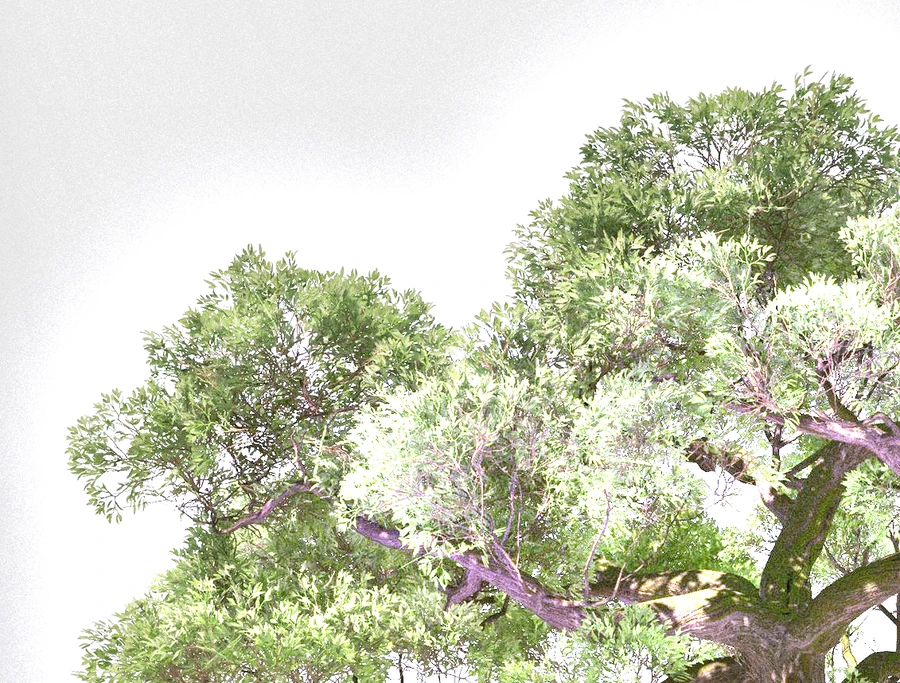
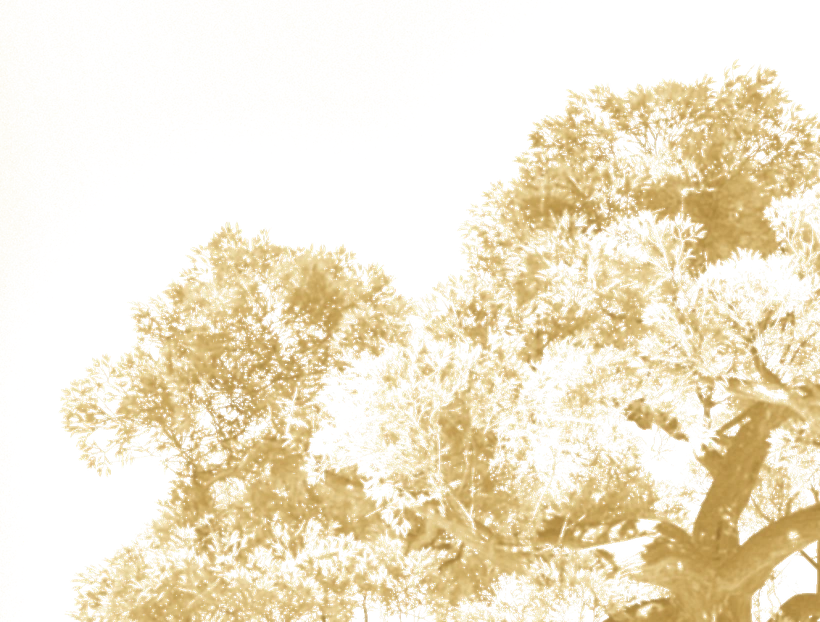
feat(home): 树冠改为白金色调、缩小到页面三成宽、边缘悬停触发星光
- 树冠重绘为白-金-青铜双色调，完全去掉绿色，叶面细节做 1.6px 高斯柔化
- 从源图重新计算 alpha：只留树叶，背景全透明，不再依赖混合模式
- 尺寸从 112vh 改为 clamp(210px, 18vw, 330px)，两棵合起来约占页面 30%
- 位置下移到页头之下，左右各贴边
- 指针进入页面左右 18% 区域时触发 18 颗星光粒子，彩虹辉光同步增强

diff --git a/src/styles/hero-trees.css b/src/styles/hero-trees.css
@@ -44,26 +44,27 @@ main#main {
 /* only the foliage shows: the trunks were cropped away in the asset */
 .page-tree {
   position: absolute;
-  top: -6vh;
-  height: 112vh;
-  width: auto;
+  top: 5vh;
+  height: auto;
+  width: clamp(210px, 18vw, 330px);
   max-width: none;
-  mix-blend-mode: multiply;
-  opacity: 0.38;
+  mix-blend-mode: normal;
+  opacity: 0.9;
+  filter: blur(0.6px);
   animation: canopy-breathe 16s ease-in-out infinite;
+  pointer-events: none;
 }
 
 .page-tree--left {
-  left: -8vw;
+  left: -2vw;
   transform: scaleX(-1);
   -webkit-mask-image: linear-gradient(to right, #000 30%, rgba(0, 0, 0, 0.45) 56%, transparent 78%);
   mask-image: linear-gradient(to right, #000 30%, rgba(0, 0, 0, 0.45) 56%, transparent 78%);
 }
 
 .page-tree--right {
-  right: -4vw;
-  top: -12vh;
-  height: 104vh;
+  right: -2vw;
+  top: 9vh;
   animation-delay: -7s;
   -webkit-mask-image: linear-gradient(to left, #000 30%, rgba(0, 0, 0, 0.45) 56%, transparent 78%);
   mask-image: linear-gradient(to left, #000 30%, rgba(0, 0, 0, 0.45) 56%, transparent 78%);
@@ -72,6 +73,34 @@ main#main {
 @keyframes canopy-breathe {
   0%, 100% { translate: 0 0; }
   50% { translate: 0 -12px; }
+}
+
+/* invisible strips at the page edges: hovering them lights the sparkles */
+.edge-zone {
+  position: absolute;
+  top: 0;
+  bottom: 0;
+  width: 17vw;
+  pointer-events: auto;
+}
+.edge-zone--left { left: 0; }
+.edge-zone--right { right: 0; }
+
+.page-spark {
+  position: absolute;
+  inset: 0;
+  pointer-events: none;
+  z-index: 2;
+}
+
+body.edge-hover .page-spark .spark {
+  animation: spark-twinkle 2.8s ease-in-out infinite;
+  animation-delay: var(--d);
+}
+
+body.edge-hover .page-rainbow {
+  opacity: 0.72;
+  transition: opacity 0.6s var(--ease);
 }
 
 /* ---------------- hero stage & the book ---------------- */
